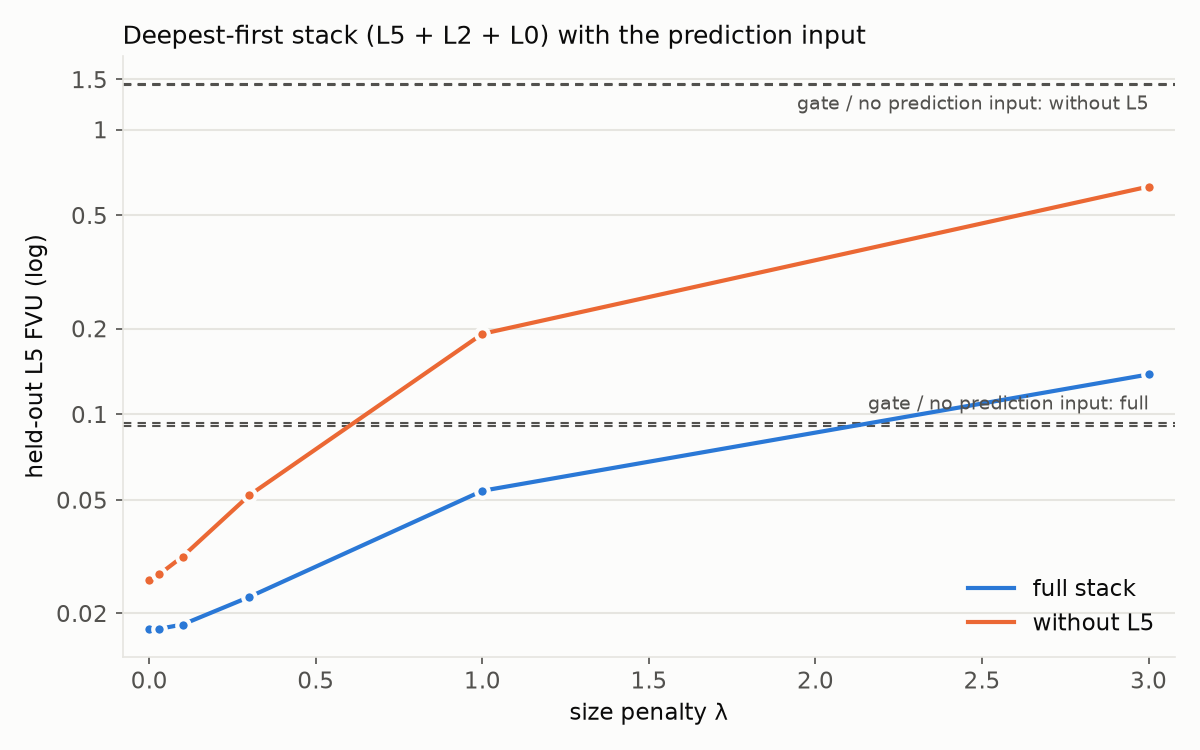
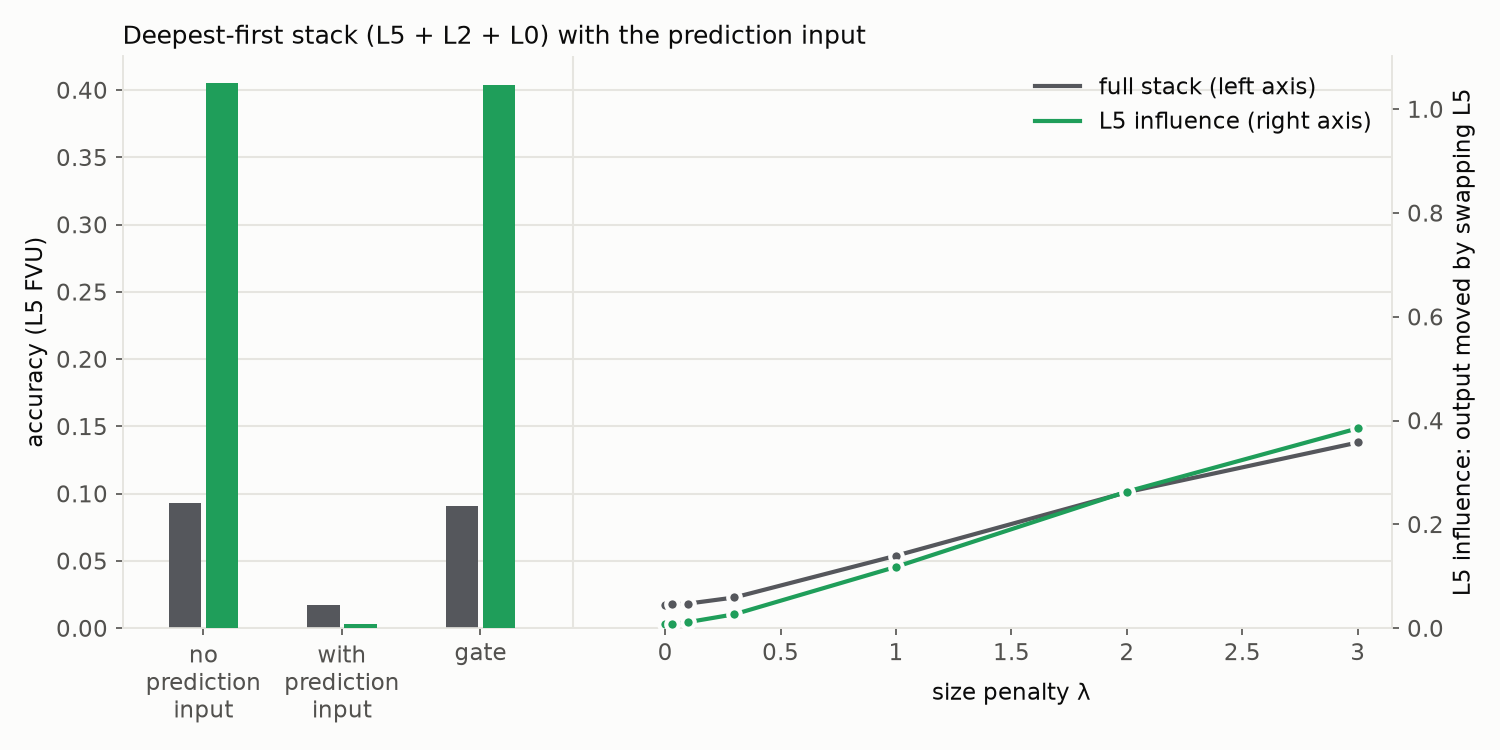
lc0-probe: hybrid_endmlp_swap.py measures L5 influence by swapping L5's output between boards; penalty plot shows it, lambda=2 results

diff --git a/lc0-probe/hybrid_penalty_plot.py b/lc0-probe/hybrid_penalty_plot.py
@@ -1,5 +1,5 @@
-"""Held-out L5 FVU of the deepest-first stack over the size penalty lambda (linear), full and without L5, with the
-version without the prediction input and the gate as reference lines. -> lc0-probe/hybrid_penalty_sweep.png
+"""Held-out L5 FVU of the deepest-first stack over the size penalty lambda (linear): full stack on the left axis; on the right, L5 influence
+(hybrid_endmlp_swap.py); the version without and with the prediction input (lambda = 0) and the gate as bars before the sweep, on the same axes. -> lc0-probe/hybrid_penalty_sweep.png
 
   python3 lc0-probe/hybrid_penalty_plot.py   (system python: matplotlib)
 """
@@ -14,32 +14,40 @@ for f in glob.glob(str(ROOT / "lc0-probe/results_hybrid_endmlp_ablate_games_n100
 lam = {0.0: R["with prediction"]}
 for k, v in R.items():
     if k.startswith("pred_pen"): lam[float(k[8:])] = v
+SW = json.load(open(ROOT / "lc0-probe/results_hybrid_endmlp_swap_games_n100000.json"))   # L5 influence (hybrid_endmlp_swap.py)
+inf = lambda name: SW[name]["L5 influence"]
 xs = sorted(lam)
 full = [lam[x]["full"]["L5 FVU"] for x in xs]
-no5 = [lam[x]["without L5"]["L5 FVU"] for x in xs]
+no5 = [inf("with prediction")] + [inf(f"pred_pen{x:g}") for x in xs[1:]]
 
-BLUE, ORANGE, INK, MUTED, GRID, BG = "#2a78d6", "#eb6834", "#0b0b0b", "#52514e", "#e6e5e0", "#fcfcfb"
+ACC, GREEN, INK, MUTED, GRID, BG = "#55575c", "#1f9e5a", "#0b0b0b", "#52514e", "#e6e5e0", "#fcfcfb"
 plt.rcParams.update({"font.family": "DejaVu Sans", "font.size": 11})
-fig, ax = plt.subplots(figsize=(8, 5), dpi=150, facecolor=BG); ax.set_facecolor(BG)
-for y, lab in ((R["without prediction"]["full"]["L5 FVU"], "no prediction input, full"),
-               (R["gate"]["full"]["L5 FVU"] if "gate" in R else R["pred_gate"]["full"]["L5 FVU"], "gate, full"),
-               (R["without prediction"]["without L5"]["L5 FVU"], "no prediction input, without L5"),
-               ((R.get("gate") or R["pred_gate"])["without L5"]["L5 FVU"], "gate, without L5")):
-    ax.axhline(y, color=MUTED, lw=1, ls=(0, (4, 3)), zorder=1)
-for ys, c, lab in ((full, BLUE, "full stack"), (no5, ORANGE, "without L5")):
-    ax.plot(xs, ys, color=c, lw=2, zorder=3, label=lab)
-    ax.scatter(xs, ys, s=36, color=c, edgecolor=BG, linewidth=2, zorder=4)
-ax.set_yscale("log"); T = [0.02, 0.05, 0.1, 0.2, 0.5, 1, 1.5]; ax.set_yticks(T, [f"{t:g}" for t in T]); ax.minorticks_off(); ax.set_xlim(-0.08, max(xs) + 0.08)
-ax.set_xlabel("size penalty λ", color=INK); ax.set_ylabel("held-out L5 FVU (log)", color=INK)
-ax.grid(True, axis="y", which="major", color=GRID, lw=1); ax.set_axisbelow(True)
-for s in ("top", "right"): ax.spines[s].set_visible(False)
-for s in ("left", "bottom"): ax.spines[s].set_color(GRID)
-ax.tick_params(colors=MUTED)
+X0 = 2.1                                                                 # where lambda = 0 sits
+fig, ax = plt.subplots(figsize=(10, 5), dpi=150, facecolor=BG); ax.set_facecolor(BG)
+ax2 = ax.twinx()                                                         # left: full stack, right: L5 influence
+for ys, c, a_, lab in ((full, ACC, ax, "full stack (left axis)"), (no5, GREEN, ax2, "L5 influence (right axis)")):
+    a_.plot([X0 + x for x in xs], ys, color=c, lw=2, zorder=3, label=lab)
+    a_.scatter([X0 + x for x in xs], ys, s=36, color=c, edgecolor=BG, linewidth=2, zorder=4)
 gate, nop = (R.get("gate") or R["pred_gate"]), R["without prediction"]
-ax.text(max(xs), max(gate["full"]["L5 FVU"], nop["full"]["L5 FVU"]) * 1.08, "gate / no prediction input: full",
-        color=MUTED, ha="right", va="bottom", fontsize=9)
-ax.text(max(xs), min(gate["without L5"]["L5 FVU"], nop["without L5"]["L5 FVU"]) * 0.92, "gate / no prediction input: without L5",
-        color=MUTED, ha="right", va="top", fontsize=9)
-ax.legend(frameon=False, loc="lower right", labelcolor=INK)
+BX, W = (0.1, 0.7, 1.3), 0.14                                                  # the other types as bars before the sweep
+for x, r, n_ in zip(BX, (nop, R["with prediction"], gate), ("without prediction", "with prediction", "pred_gate")):
+    ax.bar(x - W / 2 - 0.01, r["full"]["L5 FVU"], W, color=ACC, zorder=3)
+    ax2.bar(x + W / 2 + 0.01, inf(n_), W, color=GREEN, zorder=3)
+ax.axvline(1.7, color=GRID, lw=1)
+k = sum(a_ * b_ for a_, b_ in zip(full, no5)) / sum(a_ * a_ for a_ in full)     # right/left scale: least-squares fit of the
+top = max(max(full), max(no5 + [inf("without prediction"), inf("pred_gate")]) / k) * 1.05   # without-L5 line onto the full one
+ax.set_ylim(0, top); ax2.set_ylim(0, top * k)
+ax.set_xlim(-0.25, X0 + 3.15)
+T = [0, 0.5, 1, 1.5, 2, 2.5, 3]
+ax.set_xticks([*BX, *(X0 + t for t in T)], ["no\nprediction\ninput", "with\nprediction\ninput", "gate", *(f"{t:g}" for t in T)])
+ax.annotate("size penalty λ", (X0 + 1.5, 0), xycoords=("data", "axes fraction"), xytext=(0, -26), textcoords="offset points", color=INK, ha="center", va="top")
+ax.set_ylabel("accuracy (L5 FVU)", color=INK); ax2.set_ylabel("L5 influence: output moved by swapping L5", color=INK)
+ax.grid(True, axis="y", color=GRID, lw=1); ax.set_axisbelow(True)
+for a_ in (ax, ax2):
+    a_.spines["top"].set_visible(False)
+    for s_ in ("left", "right", "bottom"): a_.spines[s_].set_color(GRID)
+    a_.tick_params(colors=MUTED)
+h = [ax.get_legend_handles_labels(), ax2.get_legend_handles_labels()]
+ax.legend(h[0][0] + h[1][0], h[0][1] + h[1][1], frameon=False, loc="upper right", labelcolor=INK)
 ax.set_title("Deepest-first stack (L5 + L2 + L0) with the prediction input", color=INK, loc="left", fontsize=12)
 fig.tight_layout(); out = ROOT / "lc0-probe/hybrid_penalty_sweep.png"; fig.savefig(out, facecolor=BG); print("wrote", out, xs)

diff --git a/lc0-probe/hybrid_endmlp_swap.py b/lc0-probe/hybrid_endmlp_swap.py
@@ -1,0 +1,77 @@
+"""How much the trained L5 + L2 + L0 (hybrid_endmlp.py) follows L5, with no baseline: on each held-out board, L5's decoder
+output is swapped for another held-out board's (fixed random permutation), L2 and L0 stay. L5 influence =
+sum |out(swapped) - out(real)|^2 / sum |Leela L5 - mean|^2 (0: L5 ignored); also the L5 FVU with the swap.
+
+  python lc0-probe/hybrid_endmlp_swap.py [suffixes of endmlp{suffix}.pt, default: all]
+"""
+import json, sys, time, types
+from pathlib import Path
+ROOT = Path(__file__).resolve().parent.parent
+sys.path[:0] = [str(ROOT / ".pylibs"), str(ROOT / "lc0-probe")]
+tv = types.ModuleType("torchvision"); tv.ops = types.ModuleType("torchvision.ops")
+tv.ops.roi_align = tv.ops.nms = tv.ops.batched_nms = None
+sys.modules.update({"torchvision": tv, "torchvision.ops": tv.ops})
+import chess, numpy as np, onnx, torch
+from onnx2torch import convert
+from lc0_planes import encode_fens
+
+torch.set_num_threads(6)
+N = 100000
+log = lambda *x: print(time.strftime("%H:%M:%S"), *x, flush=True)
+fens = [l for l in (ROOT / "sf-probe/data/fens_games.txt").read_text().split("\n") if l][:N]
+white = [f if f.split()[1] == "w" else chess.Board(f).mirror().fen() for f in fens]
+TE = np.flatnonzero((np.random.default_rng(0).random(100000) < 0.2)[:N])
+net = onnx.shape_inference.infer_shapes(onnx.load(ROOT / "vendor/lc0-nets/t1-256x10.onnx"))
+def seg(i, o_):
+    m = convert(onnx.utils.Extractor(net).extract_model(i, o_)).eval()
+    for p in m.parameters(): p.requires_grad_(False)
+    return m
+s12, s35, tail = seg(["/encoder0/ln2"], ["/encoder2/ln2"]), seg(["/encoder2/ln2"], ["/encoder5/ln2"]), seg(["/encoder5/ln2"], ["/output/wdl"])
+with torch.no_grad(): C = s35(s12(torch.zeros(64, 256)))
+D = ROOT / "lc0-probe/data"; ST, MM = D / "hybrid_rev_streams_games_n100000", D / "hybrid_rev_tmp_games_n100000_adamw_d0"
+mu5, sd5 = torch.load(ST / "norm5.pt")
+mm = lambda n: np.lib.format.open_memmap(MM / f"{n}.npy", "r")
+G5, F = mm("G5"), {"L2": mm("F2"), "L0": mm("F0")}
+f32 = lambda X: torch.from_numpy(np.asarray(X).astype(np.float32)).reshape(-1, 256)
+
+full = seg(["/input/planes"], ["/encoder5/ln2", "/output/wdl"])
+with torch.no_grad():
+    Y, W = map(torch.cat, zip(*[full(torch.from_numpy(encode_fens([white[i] for i in TE[s:s + 256]])))
+                               for s in range(0, len(TE), 256)]))
+Y = Y.reshape(-1, 256); log("Leela on the test boards")
+
+class MLP(torch.nn.Module):
+    def __init__(self, n_in, h, gate):
+        super().__init__(); self.a, self.b, self.gate = torch.nn.Linear(n_in, h), torch.nn.Linear(h, 256), gate
+        if gate: self.g = torch.nn.Sequential(torch.nn.Linear(512, 64), torch.nn.GELU(), torch.nn.Linear(64, 1))
+    def forward(self, x):
+        if not self.gate: return self.b(torch.nn.functional.gelu(self.a(x)))
+        return torch.sigmoid(self.g(x)) * self.b(torch.nn.functional.gelu(self.a(x[:, :256])))
+fvu = lambda P, R: float(((P - R) ** 2).sum() / ((R - R.mean(0)) ** 2).sum())
+v_of = lambda w: w[:, 0] - w[:, 2]
+PERM = np.random.default_rng(0).permutation(len(TE))
+res = {}
+SUF = sys.argv[1:] or ["", "_pred", "_pred_gate"] + [f"_pred_pen{l:g}" for l in (0.03, 0.1, 0.3, 1, 2, 3)]
+var = float(((Y - Y.mean(0)) ** 2).sum())
+for P in SUF:
+    em = torch.load(MM / f"endmlp{P}.pt", weights_only=False); pred, gate = P.startswith("_pred"), em.get("gate", False); Ms = {}
+    for k in ("L2", "L0"):
+        Ms[k] = MLP(em[k]["a.weight"].shape[1], em["hidden"], gate); Ms[k].load_state_dict(em[k])
+    def model(E, E5):                                                     # L5 from boards E5, L2 and L0 from boards E
+        Cb = C.repeat(len(E), 1)
+        x = Cb + f32(G5[E5])
+        for k, Mo in Ms.items():
+            f = f32(F[k][E])
+            x = x + Mo(torch.cat([f, (x - Cb - mu5) / sd5], 1) if pred else f) * sd5
+        return x
+    mv, err, n = 0.0, 0.0, 0
+    with torch.no_grad():
+        for off in (0, N):                                                # both colourings
+            for s in range(0, len(TE), 256):
+                E, E5 = TE[s:s + 256] + off, TE[PERM[s:s + 256]] + off
+                a_, b_ = model(E, E), model(E, E5)
+                mv += float(((b_ - a_) ** 2).sum()); err += float(((b_ - Y[64 * s:64 * (s + 256)]) ** 2).sum())
+    name = {"": "without prediction", "_pred": "with prediction"}.get(P, P[1:])
+    res[name] = {"L5 influence": mv / (2 * var), "L5 FVU, L5 swapped": err / (2 * var)}
+    log(f"{name:18} " + "  ".join(f"{m} {v:.4f}" for m, v in res[name].items()))
+json.dump(res, open(ROOT / "lc0-probe/results_hybrid_endmlp_swap_games_n100000.json", "w"), indent=1)
